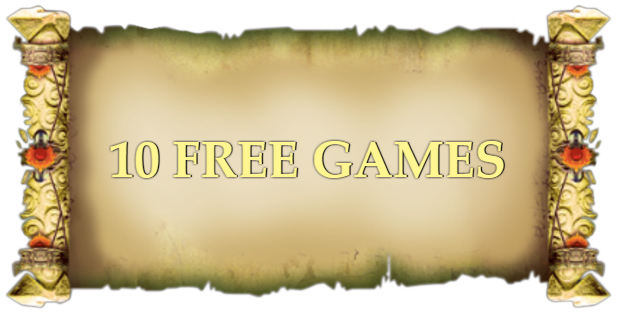
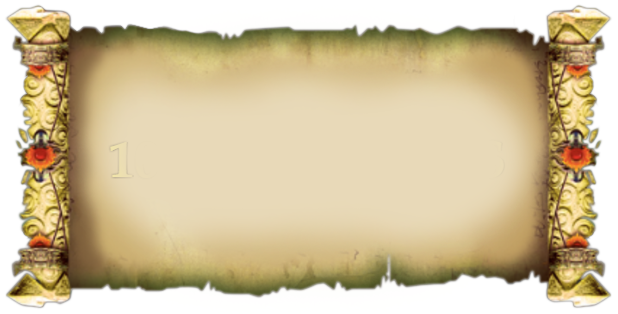
bonus spin alert added snow white

diff --git a/resources/assets/sass/divslot/games/snowwhite.scss b/resources/assets/sass/divslot/games/snowwhite.scss
@@ -3,8 +3,18 @@
 
 .alert .content {
     background: url('../img/games/snowwhite/images/freeSpinBg.png');
-    width: 541px;
-    height: 497px;
+    width: 611px;
+    height: 315px;
+    box-sizing: border-box;
+    padding: 80px;
+    display: flex;
+    justify-content: center;
+    align-items: center;
+    font-size: 40px;
+    text-transform: uppercase;
+    text-align: center;
+    text-shadow: -1px -1px 1px #000, 1px 1px 1px #000, -1px 1px 1px #000, 1px -1px 1px #000;
+    color: #FEF59F;
 }
 .main {
     background: url('../img/games/snowwhite/game_bg.png') center center;
